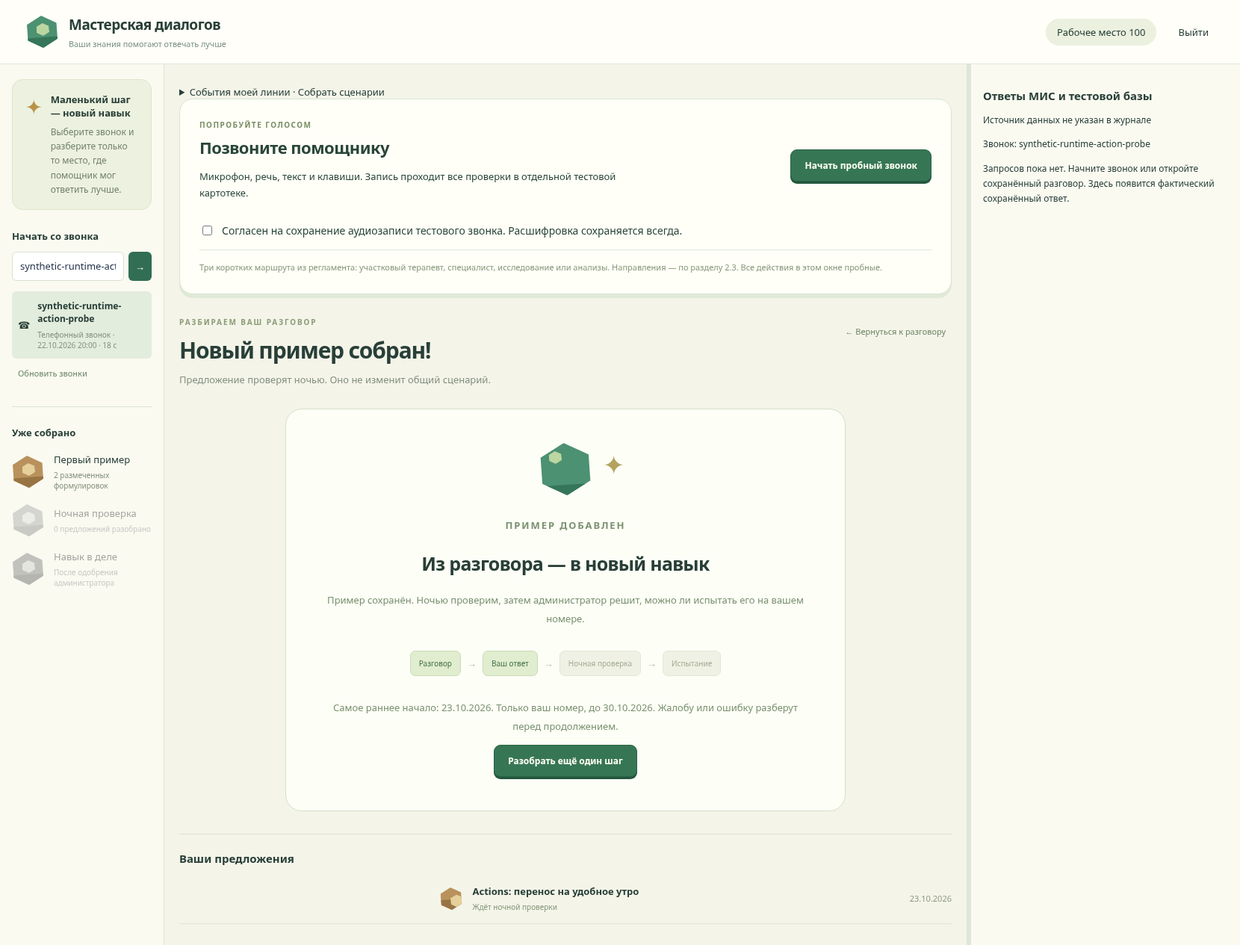
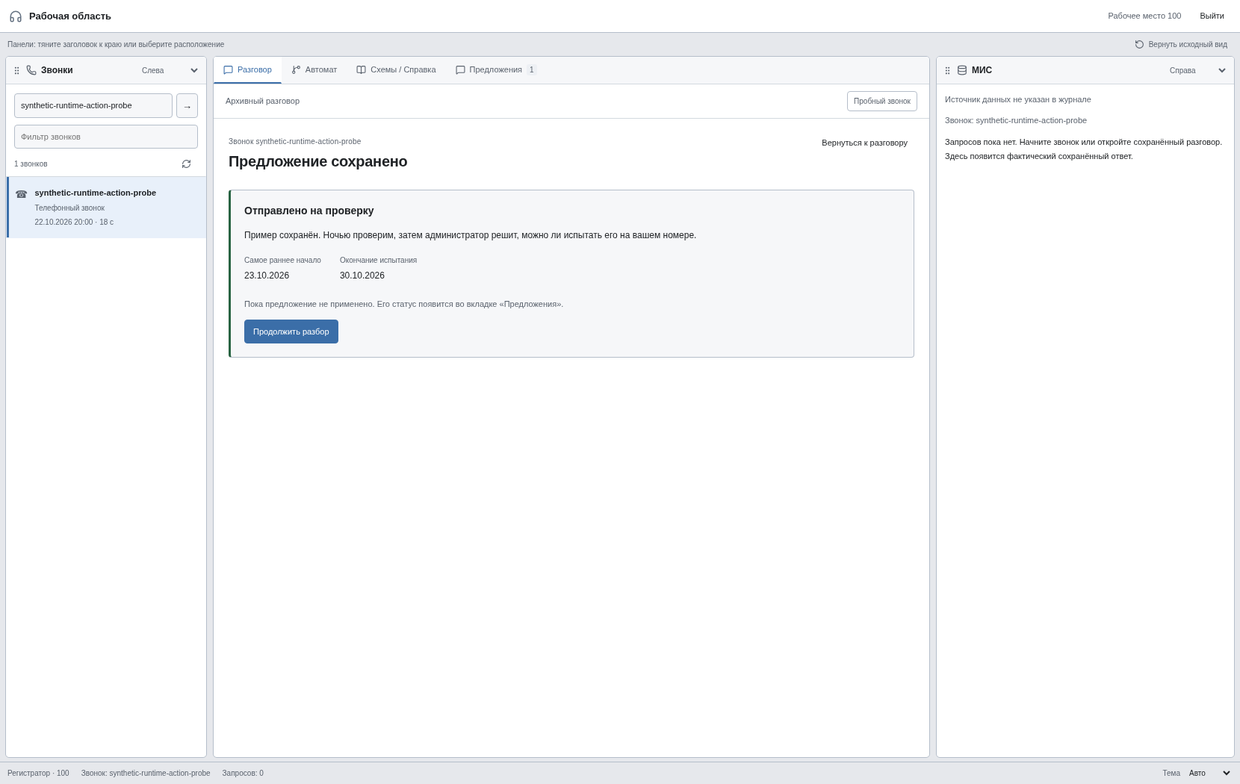
Verify dockable registrar workbench and real scenario help and proposals

diff --git a/scenario-editor/src/DockWorkspace.jsx b/scenario-editor/src/DockWorkspace.jsx
@@ -1,6 +1,7 @@
 import React,{useEffect,useRef,useState} from 'react';
 import {Database,GripVertical,Phone,RotateCcw} from 'lucide-react';
 
+// Preferences only: call data and credentials never enter localStorage here.
 const KEY='clinic-workspace-layout-v1';
 const SIDES={left:'Слева',right:'Справа',top:'Сверху',bottom:'Снизу',float:'Отдельное окно'};
 const DEFAULTS={calls:{side:'left',width:270,height:230,x:24,y:30},mis:{side:'right',width:400,height:330,x:420,y:70}};
@@ -8,10 +9,13 @@ const clamp=(value,min,max)=>Math.max(min,Math.min(max,value));
 function readLayout(){
  try{const raw=JSON.parse(localStorage.getItem(KEY)),result={};for(const id of ['calls','mis']){const item=raw?.[id]||{};result[id]={side:Object.hasOwn(SIDES,item.side)?item.side:DEFAULTS[id].side};for(const key of ['width','height','x','y'])result[id][key]=Number.isFinite(item[key])?clamp(item[key],key==='width'?225:key==='height'?160:0,1600):DEFAULTS[id][key]}return result}catch{return structuredClone(DEFAULTS)}
 }
+// Keep panels as stable React siblings. Only their rectangles change, so a
+// dock/undock cannot remount the live call, query selection or clipboard state.
 function rectangles(layout,{width,height}){
  const gap=8,groups=Object.fromEntries(['left','right','top','bottom'].map(side=>[side,Object.keys(layout).filter(id=>layout[id].side===side)]));
  let left=groups.left.length?Math.max(...groups.left.map(id=>layout[id].width)):0,right=groups.right.length?Math.max(...groups.right.map(id=>layout[id].width)):0;
- const scale=Math.min(1,Math.max(0,width-320-2*gap)/(left+right||1));left*=scale;right*=scale;
+ const activeSides=Number(left>0)+Number(right>0),sideBudget=Math.max(0,width-Math.min(320,Math.max(0,width-466))-gap*activeSides);
+ if(left+right>sideBudget){const minimum=Math.min(225,sideBudget/(activeSides||1)),extra=Math.max(0,sideBudget-minimum*activeSides),weights=Math.max(0,left-minimum)+Math.max(0,right-minimum);left=left?minimum+extra*Math.max(0,left-minimum)/(weights||1):0;right=right?minimum+extra*Math.max(0,right-minimum)/(weights||1):0}
  const x=left?left+gap:0,centerWidth=Math.max(0,width-x-(right?right+gap:0));
  let top=groups.top.length?Math.max(...groups.top.map(id=>layout[id].height)):0,bottom=groups.bottom.length?Math.max(...groups.bottom.map(id=>layout[id].height)):0;
  const vscale=Math.min(1,Math.max(0,height-240-2*gap)/(top+bottom||1));top*=vscale;bottom*=vscale;
@@ -31,19 +35,20 @@ export default function DockWorkspace({calls,mis,children}){
  function store(next){setLayout(next);try{localStorage.setItem(KEY,JSON.stringify(next));setNotice('Расположение сохранено')}catch{setNotice('Расположение изменено. Браузер не разрешил сохранить его после закрытия вкладки.')}}
  function place(id,side){store({...layout,[id]:{...layout[id],side}})}
  function reset(){gesture.current=null;setDrag(null);store(structuredClone(DEFAULTS))}
+ // Moving shows a ghost until pointer-up; Escape restores the original layout.
  function down(e,id,kind){if(e.button!==0||window.innerWidth<=760)return;e.preventDefault();e.currentTarget.setPointerCapture(e.pointerId);const box=host.current.getBoundingClientRect();gesture.current={id,kind,startX:e.clientX,startY:e.clientY,rect:rects[id],layout,box};if(kind==='move')setDrag({id,x:e.clientX-box.left,y:e.clientY-box.top,side:null})}
  function move(e){const g=gesture.current;if(!g)return;const dx=e.clientX-g.startX,dy=e.clientY-g.startY;
   if(g.kind==='move'){const x=e.clientX-g.box.left,y=e.clientY-g.box.top,zone=70;let side=null;if(x<zone)side='left';else if(x>size.width-zone)side='right';else if(y<zone)side='top';else if(y>size.height-zone)side='bottom';setDrag({id:g.id,x,y,side});return}
   const item=g.layout[g.id],next={...g.layout},vertical=['top','bottom'].includes(item.side);const width=clamp(g.rect.width+dx*(item.side==='right'?-1:1),225,Math.max(225,size.width-320)),height=clamp(g.rect.height+dy*(item.side==='bottom'?-1:1),160,Math.max(160,size.height-240));
   for(const id of Object.keys(next))if(id===g.id||next[id].side===item.side&&item.side!=='float')next[id]={...next[id],...(vertical?{height}:item.side==='float'?{width,height}:{width})};g.latest=next;setLayout(next)
  }
- function up(e){const g=gesture.current;if(!g)return;if(g.kind==='move'){const x=e.clientX-g.box.left,y=e.clientY-g.box.top,zone=70;const side=x<zone?'left':x>size.width-zone?'right':y<zone?'top':y>size.height-zone?'bottom':'float';store({...g.layout,[g.id]:{...g.layout[g.id],side,x:clamp(x-g.rect.width/2,0,Math.max(0,size.width-g.rect.width)),y:clamp(y-20,0,Math.max(0,size.height-g.rect.height))}})}else store(g.latest||g.layout);gesture.current=null;setDrag(null);if(e.currentTarget.hasPointerCapture(e.pointerId))e.currentTarget.releasePointerCapture(e.pointerId)}
+ function up(e){const g=gesture.current;if(!g)return;if(g.kind==='move'){const x=e.clientX-g.box.left,y=e.clientY-g.box.top,zone=70;const side=x<zone?'left':x>size.width-zone?'right':y<zone?'top':y>size.height-zone?'bottom':'float';store({...g.layout,[g.id]:{...g.layout[g.id],side,x:clamp(x-Math.min(g.layout[g.id].width,size.width)/2,0,Math.max(0,size.width-g.layout[g.id].width)),y:clamp(y-20,0,Math.max(0,size.height-g.layout[g.id].height))}})}else store(g.latest||g.layout);gesture.current=null;setDrag(null);if(e.currentTarget.hasPointerCapture(e.pointerId))e.currentTarget.releasePointerCapture(e.pointerId)}
  function cancel(){if(gesture.current){setLayout(gesture.current.layout);gesture.current=null}setDrag(null)}
- function resizeKey(e,id){const item=layout[id],vertical=['top','bottom'].includes(item.side),key=vertical?'height':'width',min=vertical?160:225,max=Math.max(min,vertical?size.height-240:size.width-320);let value=item[key];if(e.key==='Home')value=min;else if(e.key==='End')value=max;else if(['ArrowLeft','ArrowRight','ArrowUp','ArrowDown'].includes(e.key))value+=['ArrowLeft','ArrowUp'].includes(e.key)?-24:24;else return;e.preventDefault();const next={...layout};for(const other of Object.keys(next))if(other===id||next[other].side===item.side&&item.side!=='float')next[other]={...next[other],[key]:clamp(value,min,max)};store(next)}
+ function resizeKey(e,id){const item=layout[id],vertical=['top','bottom'].includes(item.side),key=vertical||item.side==='float'&&['ArrowUp','ArrowDown'].includes(e.key)?'height':'width',min=key==='height'?160:225,max=Math.max(min,key==='height'?size.height-240:size.width-320);let value=item[key];if(e.key==='Home')value=min;else if(e.key==='End')value=max;else if(['ArrowLeft','ArrowRight','ArrowUp','ArrowDown'].includes(e.key))value+=['ArrowLeft','ArrowUp'].includes(e.key)?-24:24;else return;e.preventDefault();const next={...layout};for(const other of Object.keys(next))if(other===id||next[other].side===item.side&&item.side!=='float')next[other]={...next[other],[key]:clamp(value,min,max)};store(next)}
  return <><div className="dock-toolbar"><span>Панели: тяните заголовок к краю или выберите расположение</span><button type="button" onClick={reset}><RotateCcw size={13}/>Вернуть исходный вид</button></div><div className="dock-workspace workshop-layout" ref={host} data-dragging={!!drag}>
   {['calls','mis'].map(id=>{const title=id==='calls'?'Звонки':'МИС',Icon=id==='calls'?Phone:Database,vertical=['top','bottom'].includes(layout[id].side);return <section key={id} data-panel={id} data-placement={layout[id].side} className={'dock-panel '+(id==='calls'?'quest-sidebar':'query-sidebar')+(layout[id].side==='float'?' dock-floating':'')} style={position(rects[id])} aria-label={id==='calls'?'Панель звонков':'Панель ответов выбранного звонка'}>
    <header className="dock-panel-header"><button type="button" className="dock-grip" aria-label={'Переместить панель '+title} title="Потяните заголовок к краю. Стрелки на клавиатуре закрепляют панель." onPointerDown={e=>down(e,id,'move')} onPointerMove={move} onPointerUp={up} onPointerCancel={cancel} onKeyDown={e=>{if(e.key==='Escape'){cancel();return}const side={ArrowLeft:'left',ArrowRight:'right',ArrowUp:'top',ArrowDown:'bottom'}[e.key];if(side){e.preventDefault();place(id,side)}}}><GripVertical size={13}/><Icon size={14}/><h2>{title}</h2></button><select aria-label={'Расположение панели '+title} value={layout[id].side} onChange={e=>place(id,e.target.value)}>{Object.entries(SIDES).map(([key,label])=><option key={key} value={key}>{label}</option>)}</select></header>
-   <div className="dock-panel-body">{id==='calls'?calls:mis}</div><div className="dock-resizer workshop-splitter" role="separator" tabIndex={0} aria-label={id==='mis'?'Ширина панели базы данных':'Размер панели звонков'} aria-orientation={vertical?'horizontal':'vertical'} aria-valuemin={vertical?160:225} aria-valuemax={Math.max(vertical?160:225,vertical?size.height-240:size.width-320)} aria-valuenow={Math.round(vertical?rects[id].height:rects[id].width)} title="Изменить размер: потяните мышью или нажимайте стрелки. Home — минимум, End — максимум." onPointerDown={e=>down(e,id,'resize')} onPointerMove={move} onPointerUp={up} onPointerCancel={cancel} onKeyDown={e=>resizeKey(e,id)} onDoubleClick={()=>store({...layout,[id]:{...layout[id],width:DEFAULTS[id].width,height:DEFAULTS[id].height}})}/>
+   <div className="dock-panel-body">{id==='calls'?calls:mis}</div><div className="dock-resizer workshop-splitter" role="separator" tabIndex={0} aria-label={layout[id].side==='float'?'Размер плавающей панели '+title:id==='mis'?(vertical?'Высота панели базы данных':'Ширина панели базы данных'):'Размер панели звонков'} aria-orientation={vertical?'horizontal':'vertical'} aria-valuemin={vertical?160:225} aria-valuemax={Math.max(vertical?160:225,vertical?size.height-240:size.width-320)} aria-valuenow={Math.round(vertical?rects[id].height:rects[id].width)} title="Изменить размер: потяните мышью или нажимайте стрелки. Home — минимум, End — максимум." onPointerDown={e=>down(e,id,'resize')} onPointerMove={move} onPointerUp={up} onPointerCancel={cancel} onKeyDown={e=>resizeKey(e,id)} onDoubleClick={()=>store({...layout,[id]:{...layout[id],width:DEFAULTS[id].width,height:DEFAULTS[id].height}})}/>
   </section>})}
   <main className="quest-main dock-center" style={position(rects.center)} aria-label="Разговор и маршрут">{children}</main>
   {drag&&<><div className="dock-ghost" style={{left:clamp(drag.x-100,0,size.width-200),top:clamp(drag.y+14,0,size.height-50)}}>{drag.id==='calls'?'Звонки':'МИС'} · {drag.side?SIDES[drag.side]:'Отдельное окно'}</div>{['left','right','top','bottom'].map(side=><div key={side} className={'dock-target '+side+(drag.side===side?' drop-ready':'')}>{SIDES[side]}</div>)}</>}

diff --git a/scenario-editor/src/SchemasHelp.jsx b/scenario-editor/src/SchemasHelp.jsx
@@ -2,16 +2,18 @@ import React,{useEffect,useRef,useState} from 'react';
 import {BookOpen,FileText,GitBranch,RefreshCw} from 'lucide-react';
 
 export default function SchemasHelp({api,identity,current,call,onPropose}){
- const [catalog,setCatalog]=useState(null),[error,setError]=useState(''),[loading,setLoading]=useState(false),[step,setStep]=useState(current),[document,setDocument]=useState(null),[docError,setDocError]=useState('');
+ const [catalog,setCatalog]=useState(null),[error,setError]=useState(''),[loading,setLoading]=useState(false),[step,setStep]=useState(current),[document,setDocument]=useState(null),[docError,setDocError]=useState(''),[flowDetail,setFlowDetail]=useState(null),[selectedItem,setSelectedItem]=useState('');
  const request=useRef(0),catalogRequest=useRef(0);
  useEffect(()=>{refresh();return()=>{++request.current;++catalogRequest.current}},[]);
  async function refresh(){const id=++catalogRequest.current;setLoading(true);setError('');try{const data=await api('workshop/knowledge');if(id===catalogRequest.current)setCatalog(data)}catch(e){if(id===catalogRequest.current)setError('Каталог схем и документов недоступен: '+e.message)}finally{if(id===catalogRequest.current)setLoading(false)}}
+ async function openFlow(flow){const token=++request.current;setDocument(null);setDocError('');setSelectedItem('flow:'+flow.name);try{const [definition,value]=await Promise.all([api('workshop/knowledge/flow?id='+encodeURIComponent(flow.name)),api('workshop/step?state='+encodeURIComponent(flow.entry.includes('.')?flow.entry:flow.name+'.'+flow.entry))]);if(token===request.current){setFlowDetail(definition.flow);setStep(value)}}catch(e){if(token===request.current)setDocError(e.message)}}
  async function openStep(id){const token=++request.current;setDocument(null);setDocError('');try{const value=await api('workshop/step?state='+encodeURIComponent(id));if(token===request.current)setStep(value)}catch(e){if(token===request.current)setDocError(e.message)}}
- async function openDocument(id){const token=++request.current;setDocError('');setDocument(null);try{const value=await api('workshop/knowledge/document?id='+encodeURIComponent(id));if(token===request.current)setDocument(value)}catch(e){if(token===request.current)setDocError(e.message)}}
+ async function openDocument(id){const token=++request.current;setSelectedItem('doc:'+id);setDocError('');setDocument(null);try{const value=await api('workshop/knowledge/document?id='+encodeURIComponent(id));if(token===request.current)setDocument(value)}catch(e){if(token===request.current)setDocError(e.message)}}
  const card=step?.current,allowed=identity.role!=='observer'&&call?.can_propose!==false&&call?.trace?.includes(card?.id);
  return <section className="schemas-help" aria-label="Схемы и справка"><header className="schemas-heading"><div><h1>Схемы / Справка</h1><p>Установленные сценарии и документы из серверного каталога. Изменения сотрудника проходят отдельную проверку.</p></div><button onClick={refresh} disabled={loading}><RefreshCw size={14}/>Обновить</button></header>{error&&<p role="status" className="archive-warning">{error}. Доступный шаг ниже получен из настоящего сценария.</p>}
-  <div className="knowledge-layout"><nav className="knowledge-tree" aria-label="Каталог сценариев и документов"><h2><GitBranch size={14}/>Сценарии</h2>{catalog?.flows?.map(flow=><button key={flow.name} onClick={()=>openStep(flow.entry.includes('.')?flow.entry:flow.name+'.'+flow.entry)}><strong>{flow.title||flow.name}</strong><small>{Number.isFinite(flow.state_count)?flow.state_count+' шагов':''}</small></button>)}{!catalog?.flows?.length&&<p>{catalog?'Доступных схем нет.':'Полный список пока недоступен. Можно просмотреть текущий шаг и его связи.'}</p>}<h2><BookOpen size={14}/>Документы</h2>{catalog?.documents?.map(doc=><button key={doc.id} onClick={()=>openDocument(doc.id)}><FileText size={13}/><span>{doc.title}<small>{doc.path}</small></span></button>)}{!catalog?.documents?.length&&<p>Сервер не предоставил доступных документов.</p>}{catalog?.revision&&<small className="knowledge-revision">Версия: {catalog.revision.slice(0,12)}</small>}{identity.role==='admin'&&<a href="/" className="knowledge-editor">Открыть административный редактор →</a>}</nav>
-   <article className="knowledge-document">{docError&&<p role="alert" className="quest-error">{docError}</p>}{document?<><p className="workshop-eyebrow">Документ · {document.path}</p><h2>{document.title}</h2><pre className="knowledge-content">{document.content}</pre></>:card?<><p className="workshop-eyebrow">Шаг сценария · {card.id}</p><h2>{card.title}</h2>{card.lines?.map((line,i)=><p className="knowledge-line" key={i}>{line}</p>)}<h3>Переходы</h3>{step.next?.length?<div className="knowledge-steps">{step.next.map((next,i)=><button key={i} onClick={()=>openStep(next.card.id)}><small>{next.label}</small><strong>{next.card.title}</strong></button>)}</div>:<p>Следующих шагов нет.</p>}<button className="quest-primary" disabled={!allowed} onClick={()=>onPropose(card.id)}>Предложить правку этого шага</button><p className="workshop-muted">{allowed?'Предложение будет связано с выбранным звонком и вашей линией. Общий сценарий не изменится.':identity.role==='observer'?'Наблюдателю доступен просмотр. Для предложения войдите в рабочее место.':'Для предложения выберите звонок, в котором встречался этот шаг.'}</p></>:<p>Выберите схему или документ в каталоге.</p>}</article>
+  {catalog?.source==='local_scenario_pack'&&<p className="knowledge-source">Источник: установленный локальный пакет сценариев. {catalog.referrals_source==='optional_local_clinic_registry'?'Направления проверяются только в отдельном локальном реестре клиники, если он подключён.':' '}</p>}
+  <div className="knowledge-layout"><nav className="knowledge-tree" aria-label="Каталог сценариев и документов"><h2><GitBranch size={14}/>Сценарии</h2>{catalog?.flows?.map(flow=><button key={flow.name} data-flow={flow.name} aria-current={selectedItem==='flow:'+flow.name?'true':undefined} onClick={()=>openFlow(flow)}><strong>{flow.title||flow.name}</strong><small>{Number.isFinite(flow.state_count)?flow.state_count+' шагов':''}</small></button>)}{!catalog?.flows?.length&&<p>{catalog?'Доступных схем нет.':'Полный список пока недоступен. Можно просмотреть текущий шаг и его связи.'}</p>}<h2><BookOpen size={14}/>Документы</h2>{catalog?.documents?.map(doc=><button key={doc.id} data-document={doc.id} aria-current={selectedItem==='doc:'+doc.id?'true':undefined} onClick={()=>openDocument(doc.id)}><FileText size={13}/><span>{doc.title}<small>{doc.path}</small></span></button>)}{!catalog?.documents?.length&&<p>Сервер не предоставил доступных документов.</p>}{catalog?.revision&&<small className="knowledge-revision">Версия: {catalog.revision.slice(0,12)}</small>}{identity.role==='admin'&&<a href="/" className="knowledge-editor">Открыть административный редактор →</a>}</nav>
+   <article className="knowledge-document">{!document&&flowDetail&&<label className="knowledge-state-picker">Шаг установленной схемы<select aria-label="Шаг установленной схемы" value={card?.id?.startsWith(flowDetail.name+'.')?card.id:''} onChange={e=>e.target.value&&openStep(e.target.value)}><option value="">Выберите шаг</option>{flowDetail.states.map(state=><option key={state.name} value={flowDetail.name+'.'+state.name}>{state.label||state.name}</option>)}</select></label>}{docError&&<p role="alert" className="quest-error">{docError}</p>}{document?<><p className="workshop-eyebrow">Документ · {document.path}</p><h2>{document.title}</h2><pre className="knowledge-content">{document.content}</pre></>:card?<><p className="workshop-eyebrow">Шаг сценария · {card.id}</p><h2>{card.title}</h2>{card.lines?.map((line,i)=><p className="knowledge-line" key={i}>{line}</p>)}<h3>Переходы</h3>{step.next?.length?<div className="knowledge-steps">{step.next.map((next,i)=><button key={i} onClick={()=>openStep(next.card.id)}><small>{next.label}</small><strong>{next.card.title}</strong></button>)}</div>:<p>Следующих шагов нет.</p>}<button className="quest-primary" disabled={!allowed} onClick={()=>onPropose(card.id)}>Предложить правку этого шага</button><p className="workshop-muted">{allowed?'Предложение будет связано с выбранным звонком и вашей линией. Общий сценарий не изменится.':identity.role==='observer'?'Наблюдателю доступен просмотр. Для предложения войдите в рабочее место.':'Для предложения выберите звонок, в котором встречался этот шаг.'}</p></>:<p>Выберите схему или документ в каталоге.</p>}</article>
   </div>
  </section>
 }

diff --git a/scenario-editor/src/workshop.css b/scenario-editor/src/workshop.css
@@ -18,3 +18,6 @@
 @media(prefers-reduced-motion:reduce){.registrar-workshop *{scroll-behavior:auto!important;transition:none!important;animation:none!important}}
 /* Existing shared query typography retained for the administrative archive. */
 .query-inspector h2{font-size:15px}.query-inspector label{font-size:12px;display:grid;gap:7px}.query-inspector select{width:100%;min-width:0}.query-origin,.query-call{font-size:11px;line-height:1.6;overflow-wrap:anywhere}.query-inspector pre{white-space:pre-wrap;overflow-wrap:anywhere;font-size:12px;line-height:1.6}.query-inspector summary,.query-inspector>p{font-size:12px;line-height:1.7}.query-inspector article p{overflow-wrap:anywhere}.call-queries{margin:16px 0;max-width:100%;font-size:12px}.call-queries article{border-bottom:1px solid #b8cabc;padding:10px 0}.call-queries pre{white-space:pre-wrap;overflow-wrap:anywhere;line-height:1.7}
+.registrar-workshop .knowledge-tree>button[aria-current=true]{background:var(--accent-soft);border-color:var(--accent);color:var(--accent)}.registrar-workshop .knowledge-state-picker{display:grid;gap:5px;font-size:10px;color:var(--secondary);margin-bottom:15px}.registrar-workshop .knowledge-state-picker select{font-size:11px}
+.registrar-workshop .dock-panel[data-placement=left]>.dock-resizer,.registrar-workshop .dock-panel[data-placement=right]>.dock-resizer{top:37px;bottom:0;width:6px;height:auto;background:transparent;cursor:col-resize}.registrar-workshop .dock-panel[data-placement=right]>.dock-resizer{left:0;right:auto}.registrar-workshop .dock-panel[data-placement=top]>.dock-resizer,.registrar-workshop .dock-panel[data-placement=bottom]>.dock-resizer{left:0;right:0;width:auto;height:6px;background:transparent;cursor:row-resize}.registrar-workshop .dock-panel[data-placement=bottom]>.dock-resizer{top:0;bottom:auto}.registrar-workshop .dock-panel>.dock-resizer:hover,.registrar-workshop .dock-panel>.dock-resizer:focus-visible{background-color:var(--accent-soft)}.registrar-workshop .knowledge-source{font-size:10px;color:var(--secondary);padding:9px;background:var(--inset);border:1px solid var(--line);margin-bottom:15px}
+.registrar-workshop .dock-grip,.registrar-workshop .recent-calls>button,.registrar-workshop .transcript-line,.registrar-workshop .knowledge-tree>button{justify-content:flex-start}

diff --git a/scenarios/docs/WORKSHOP.md b/scenarios/docs/WORKSHOP.md
@@ -1,4 +1,4 @@
-# Мастерская диалогов
+# Рабочее место регистратора
 
 Откройте `http://localhost:8090/registrar` (фактический порт печатает `./clinic status`).
 
@@ -12,9 +12,23 @@
 
 Выберите разговор или введите его номер. Показываются настоящая расшифровка и маршрут. Нажатие на реплику открывает соответствующий шаг. Здесь видны соседние шаги, а не вся карта будущих вариантов. В аудиоплеере — реальная запись; ошибка TTS показывается явно.
 
-«Улучшить этот шаг» открывает простые поля: название случая, тема обращения, альтернативные формулировки и хороший ответ. В «Ответить раньше» можно выбрать только предыдущий шаг этого разговора. «Пройти новый вариант» показывает реплики и позволяет послушать ответ, без выполнения записи в МИС. «Предложить исправление» сохраняет исходный разговор и размеченные примеры атомарно.
+«Улучшить этот шаг» открывает простые поля: название случая, тема обращения, альтернативные формулировки и хороший ответ. В «На каком шаге ответить» можно выбрать только предыдущий шаг этого разговора. «Посмотреть реплики» показывает реплики и позволяет послушать ответ, без выполнения записи в МИС. «Предложить исправление» сохраняет исходный разговор и размеченные примеры атомарно.
 
-Награды отражают события: появился размеченный пример, прошла ночная подготовка, сценарий действительно применялся. Неподготовленный пример не обозначается как работающий навык. Время интерфейса сохраняет дату клиники, а не сдвигает полночь на предыдущие сутки в часовом поясе браузера.
+Вкладка «Предложения» показывает фактический статус: очередь, ночная подготовка, проверка или испытание. Подготовленный пример не обозначается как работающая версия. Время интерфейса сохраняет дату клиники, а не сдвигает полночь в часовом поясе браузера.
+
+## Панели и схема работы
+
+По умолчанию слева находится архив звонков, справа — фактические ответы МИС или тестовой базы, в центре — разговор. Перетяните заголовок боковой панели к любому краю рабочей области; отпустите в середине, чтобы получить отдельное окно. Те же действия доступны через список расположения в заголовке. Стрелки на сфокусированном заголовке закрепляют панель к соответствующему краю; Escape отменяет перетаскивание.
+
+Граница панели меняет её ширину или высоту мышью. Стрелки на сфокусированном разделителе меняют размер, Home/End выбирают минимум/максимум; у отдельного окна горизонтальные стрелки меняют ширину, вертикальные — высоту. Расположение и размер сохраняются в этом браузере. «Вернуть исходный вид» восстанавливает звонки слева и МИС справа. На узком экране панели выстраиваются последовательно: звонки, центральная область, МИС; сохранённая desktop-раскладка остаётся доступна на широком экране.
+
+Тема в нижней строке — светлая, тёмная или системная — действует только на рабочее место. Административный редактор сохраняет свой интерфейс. Код раскладки сохраняет в браузере настройки расположения и темы; клиентская база данных в браузере не создаётся. Источник оформления — единственный предоставленный HTML-эталон; [MIT notice](../../scenario-editor/THIRD_PARTY_NOTICES.md) сохранён.
+
+Во вкладке «Разговор» нажмите строку расшифровки для просмотра соответствующего шага. Во вкладке «Автомат» показывается фактический сохранённый путь, с сохранением повторных посещений шагов. «Пробный звонок» открывает существующий клиент настоящего ASR/TTS/автомата; его обращения остаются в изолированной тестовой картотеке. Панель справа показывает источник, номер выбранного звонка, сохранённый результат и статус проверки. Для каждой ячейки, включая NULL, пустую строку и JSON, есть копирование; параметры и текст запроса находятся в раскрываемых подробностях. Снимок SQLite не называется внешней МИС.
+
+«Схемы / Справка» читает настоящий серверный каталог `scenarios/`: схемы `.flow`, документацию, регламент, инструкции и контракт МИС. Шаг можно выбрать по его имени, прочитать реплики и перейти по связям. Документы показываются как исходный текст; HTML и скрипты из них не выполняются. Администратору доступна ссылка в существующий общий редактор. Сотрудник может предложить правку выбранного шага только через звонок своей линии, где этот шаг встречался; это очередь проверки, а не изменение общего сценария. Если каталог недоступен, интерфейс сообщает об этом и показывает доступный шаг workshop API, не подставляет вымышленные документы.
+
+Направления и сроки их действия не извлекаются из предоставленной МИС: возможный источник — только отдельно подключённый локальный реестр клиники. Просмотр схем/документов не выполняет транзакции МИС.
 
 ## Что уже подключено, а что ещё ожидает реализации
 
@@ -28,8 +42,12 @@
 
 ```bash
 PYTHONPATH=runtime/src:. python -m pytest -q tests/integration/test_learning.py tests/integration/test_scenario_editor.py tests/integration/test_workshop_access.py
-node debug/run_workshop_browser.mjs
-node debug/run_voice_controls.mjs
+npm run build --prefix scenario-editor
+node debug/run_registrar_mis_panel.mjs
+node debug/run_registrar_scenario_actions.mjs
 ```
 
 Браузерные прогоны используют локальный тестовый стек `28480` и редактор `28490`; адреса можно задать `ORCHESTRATOR_URL` и `EDITOR_URL`. В `debug/runs/workshop/browser/` лежат настоящий входной WAV, фактическая ASR-фраза и снимки разметки. В `debug/runs/voice-controls/` — вход user/user, наблюдатель с деталями, проигрывание администратором и проверка формы учётной записи. Серверные проверки отдельно доказывают запрет записи наблюдателю и привязку номера.
+
+
+Дополнительные актуальные UI-доказательства: `debug/runs/registrar-mis-panel/`. Первый runner использует настоящий Chromium/clipboard и явно синтетические HTTP-ответы для проверки интерфейса. Второй поднимает настоящие editor/Repository/Learning/SQLite на своих временных портах: admin save/restore, чтение реального knowledge API, scoped-предложение из схемы и серверные ACL. Он проверяет отображение синтетического архива; настоящий ASR/исполнение FSM этим прогоном не заявляется. Для архива из отдельного Session runner поддерживается `SCENARIO_ACTIONS_ARCHIVE` с независимым `expected_target`.

diff --git a/debug/runs/registrar-mis-panel/ACCEPTANCE.md b/debug/runs/registrar-mis-panel/ACCEPTANCE.md
@@ -1,26 +1,30 @@
-# Панель ответов МИС: приёмка UI
+# Рабочее место регистратора: локальная приёмка
 
-Ветка `feature/registrar-mis-panel`. Правую панель текущего/сохранённого звонка проверили настоящим Chromium; просмотрены `01-right-panel-archive.png`, `02-right-panel-live.png`, `03-narrow-panel.png`. HTTP-данные этого браузерного теста — явно синтетические fixtures. Тест не доказывает выполнение внешней МИС, TTS/ASR или модели.
+Рабочее место перенесено по единственному пользовательскому эталону `adjust-web-page-styles (1).zip` (index.html, 316396 bytes). Визуальная тема, компактные панели и docking адаптированы; MIT notice сохранён в `scenario-editor/THIRD_PARTY_NOTICES.md`. Подставные роли, sql.js/клиентская база, speechSynthesis и демозаписи прототипа не перенесены. Существующий административный редактор и ObserverCall.jsx не редактировались.
 
-## Проверено
+## Проверки
 
-- Панель справа от звонка при 1660 и 900 px; при 390 px располагается под звонком без горизонтального переполнения страницы.
-- Поле, SQL, параметр, NULL, JSON, пустая строка, длинное значение копируются точно. Проверяется содержимое настоящего clipboard Chromium. Длинное значение прокручивается внутри ячейки и копируется целиком.
-- Отказ Clipboard API переключается на настоящий `execCommand('copy')`. Полный отказ даёт видимое сообщение и возможность ручного копирования.
-- Изменение ширины мышью и клавиатурой; пустой и несохранённый ответ; смена звонка; медленный старый ответ не заменяет выбранный звонок.
-- Warnings телефонного архива остаются видимыми; SQLite названа тестовой; сохранённый результат не выдаётся за сверку с текущим состоянием МИС.
-- Один компонент ответа используется также в раскрываемом журнале шагов и административной панели звонков. `ObserverCall.jsx` не изменён.
+`node debug/run_registrar_mis_panel.mjs` — **22 passed**, настоящий Chromium и настоящий clipboard, синтетические HTTP fixtures (`result.json`):
 
-## Команды
+- исходное расположение звонков слева, ответа справа, разговора в центре;
+- перетаскивание мышью к каждому из четырёх краёв и в отдельное окно; React-поддерево инспектора остаётся тем же DOM-элементом, вызов/выбор запроса не перемонтируются;
+- ширина/высота, pointer + keyboard, Escape, доступные списки расположения, reset;
+- сохранение расположения, размеров и темы после reload; светлая/тёмная/системная тема ограничены рабочим местом;
+- 900px без наложения панелей и 390px с последовательной раскладкой без горизонтального переполнения страницы;
+- точное копирование ФИО, NULL, JSON, пустой строки, длинного значения, SQL и параметров; настоящий execCommand fallback и видимая ошибка полного отказа;
+- пустой и несохранённый ответ различаются; поздний ответ открытия не заменяет выбранный звонок; предупреждения архива не теряются;
+- «Схемы / Справка» отображает точный текст документа из репозитория и не предлагает административный редактор наблюдателю.
 
-`node debug/run_registrar_mis_panel.mjs` — 13 браузерных проверок, passed; ошибок JavaScript нет (`result.json`). Скрипт запускает только свой Vite на localhost, закрывает его и Chromium в finally. Нужен установленный Chrome (`CHROME_PATH` поддерживается).
+`node debug/run_registrar_scenario_actions.mjs` — **8 passed**, настоящий editor HTTP, Repository, Learning/SQLite и knowledge API, без route.fulfill (`scenario-actions/result.json`): admin save/restore; документы и шаги реального пакета scenarios; scoped-предложение сотрудника из просмотра схемы, queued line100; чужая line101 пуста, общий проект неизменен; настоящие серверные ACL; ночь только prepared, review blocked; SQLite подтверждает две метки и ноль записей на приём.
 
-`PYTHONPATH=runtime/src:. python -m pytest -q tests/integration/test_call_archive.py tests/integration/test_workshop_access.py` — 7 passed (`server-tests.log`).
+`PYTHONPATH=runtime/src:. python -m pytest -q tests/integration/test_call_archive.py tests/integration/test_workshop_access.py tests/integration/test_learning.py tests/contracts/test_scenario_knowledge.py` — **25 passed** (`server-tests.log`).
 
-`npm run build --prefix scenario-editor` — passed (`build.log`); остаются предупреждения upstream `use client` и размер JS chunk >500 kB.
+`npm run build --prefix scenario-editor` — passed (`build.log`, убраны только ANSI-коды и пробелы в конце строк). Остались предупреждения upstream use-client и размер JS chunk. Контроль диска до/после passed (`space-after.json`).
 
-`python tools/check_space.py` — passed до и после сборки (`space-after.json`).
+## Визуальная проверка
 
-## Остаток
+Просмотрены screenshots 01–05 и scenario-actions/01–05. Светлая и тёмная темы читаемы; floating-панель доступна; на телефоне панели складываются. Старые PNG admin save/restore остались побайтно неизменными; main.jsx, style.css и ObserverCall.jsx не редактировались.
 
-Реальная интеграционная приёмка звукового звонка, производственной МИС, серверного конечного автомата и Actions относится к другим модулям. Размещение правой панели в административном CallsPanel собрано, но отдельный административный браузерный вход этим скриптом не проверяется. Разрешения, которые даёт UI тесту синтетический HTTP fixture, не служат проверкой серверной авторизации: для неё выполнены отдельные 7 серверных тестов.
+## Границы доказательств
+
+Первый runner доказывает UI на явно синтетических HTTP-ответах. Второй доказывает настоящий путь административных/серых правок и чтения справки, но встроенный runtime-архив синтетический: ASR и исполнение FSM этим прогоном **не** заявляются. Для записи настоящего Session поддержан SCENARIO_ACTIONS_ARCHIVE с независимым expected_target. Внешние МИС/модели и данные пациентов не нужны. Выполнение в act/Actions и общий аудиопрогон остаются отдельной интеграционной приёмкой; локальные тесты за них не выдаются.

diff --git a/TODO.md b/TODO.md
@@ -325,3 +325,10 @@
 - [x] 114 целевых pytest passed; настоящий act control-contracts: 77 + 27 passed, debug/runs/score-act/knowledge-control.log. Проверены ревизии после admin save, запрет произвольных путей/выходящих symlink, роли и отсутствие MIS writes.
 - [x] Порог свободного места приведён к прямому указанию пользователя: строго более 5 GiB и на /home, и на /.
 - [ ] Обновлённый UI агента пока не принят; полный аудиопрогон20 и импорт настоящего архива остаются обязательными отдельными проверками.
+
+### Рабочая область регистратора: локальная приёмка — 22.10.2026
+
+- [x] Рабочая тема и docking из единственного `adjust-web-page-styles (1).zip`, MIT notice, без переноса fake auth/sql.js/speechSynthesis/записей. Звонки слева, МИС справа, разговор/автомат в центре; админский editor и ObserverCall.jsx не менялись.
+- [x] 22 Chromium UI проверки: все четыре края мышью, отдельное окно, resize обеих осей и клавиатура, Escape/reset, сохранение layout/темы, 900/390px, clipboard, гонки и предупреждения. Screenshot 01–05 просмотрены.
+- [x] 8 настоящих browser→editor/Repository/Learning/knowledge проверок: документы/шаги единого scenarios, scoped-предложение из схемы, queued line100, неизменный общий сценарий, ACL и blocked activation. 25 целевых серверных тестов и сборка прошли.
+- [ ] Выполнить новые UI runners в act/Actions на опубликованном SHA и общий audio→ASR→FSM→архив прогон. Локальная UI-приёмка не заменяет эти проверки. Полные доказательства: `debug/runs/registrar-mis-panel/ACCEPTANCE.md`.

diff --git a/debug/runs/registrar-mis-panel/scenario-actions/ACCEPTANCE.md b/debug/runs/registrar-mis-panel/scenario-actions/ACCEPTANCE.md
@@ -19,3 +19,7 @@
 `PYTHONPATH=runtime/src:. python -m pytest -q tests/integration/test_learning.py` — 6 passed (`learning-tests.log`). Контроль диска прошёл (`space-after.json`).
 
 Для будущего прогона с реальным Session-архивом: `SCENARIO_ACTIONS_ARCHIVE=/abs/archive.json node debug/run_registrar_scenario_actions.mjs`. JSON должен иметь `call_id`, `trace`, `transcript` с role/state/text/step_index и независимый `expected_target`. При отсутствии snapshot graph сервер прикрепляет снимок тестового Repository. Источник помечается `provided_json_archive`, но runner по-прежнему не заявляет, что сам выполнил FSM или ASR. Стандартная маскировка длинных цифровых строк Learning применяется; передаваемый синтетический тест не должен содержать настоящие данные пациентов.
+
+## Рабочая область по пользовательскому HTML-эталону
+
+Повторный прогон нового UI: **8 passed**. Дополнительно настоящим Chromium прочитан документ `guide` через knowledge API и его текст сопоставлен с HTTP-ответом; открыт реальный `.flow`, выбран шаг; ссылка администратора ведёт в тот же `/` editor. Сотрудник открывает шаг через «Схемы / Справка» и подаёт привязанную к звонку/линии правку, а не сохраняет глобальный проект. Снимок `05-real-knowledge.png` просмотрен. Скриншоты административного save/restore остались прежними без изменения интерфейса. Встроенный архив остаётся явно синтетическим, и заявление об исполнении FSM отсутствует.
